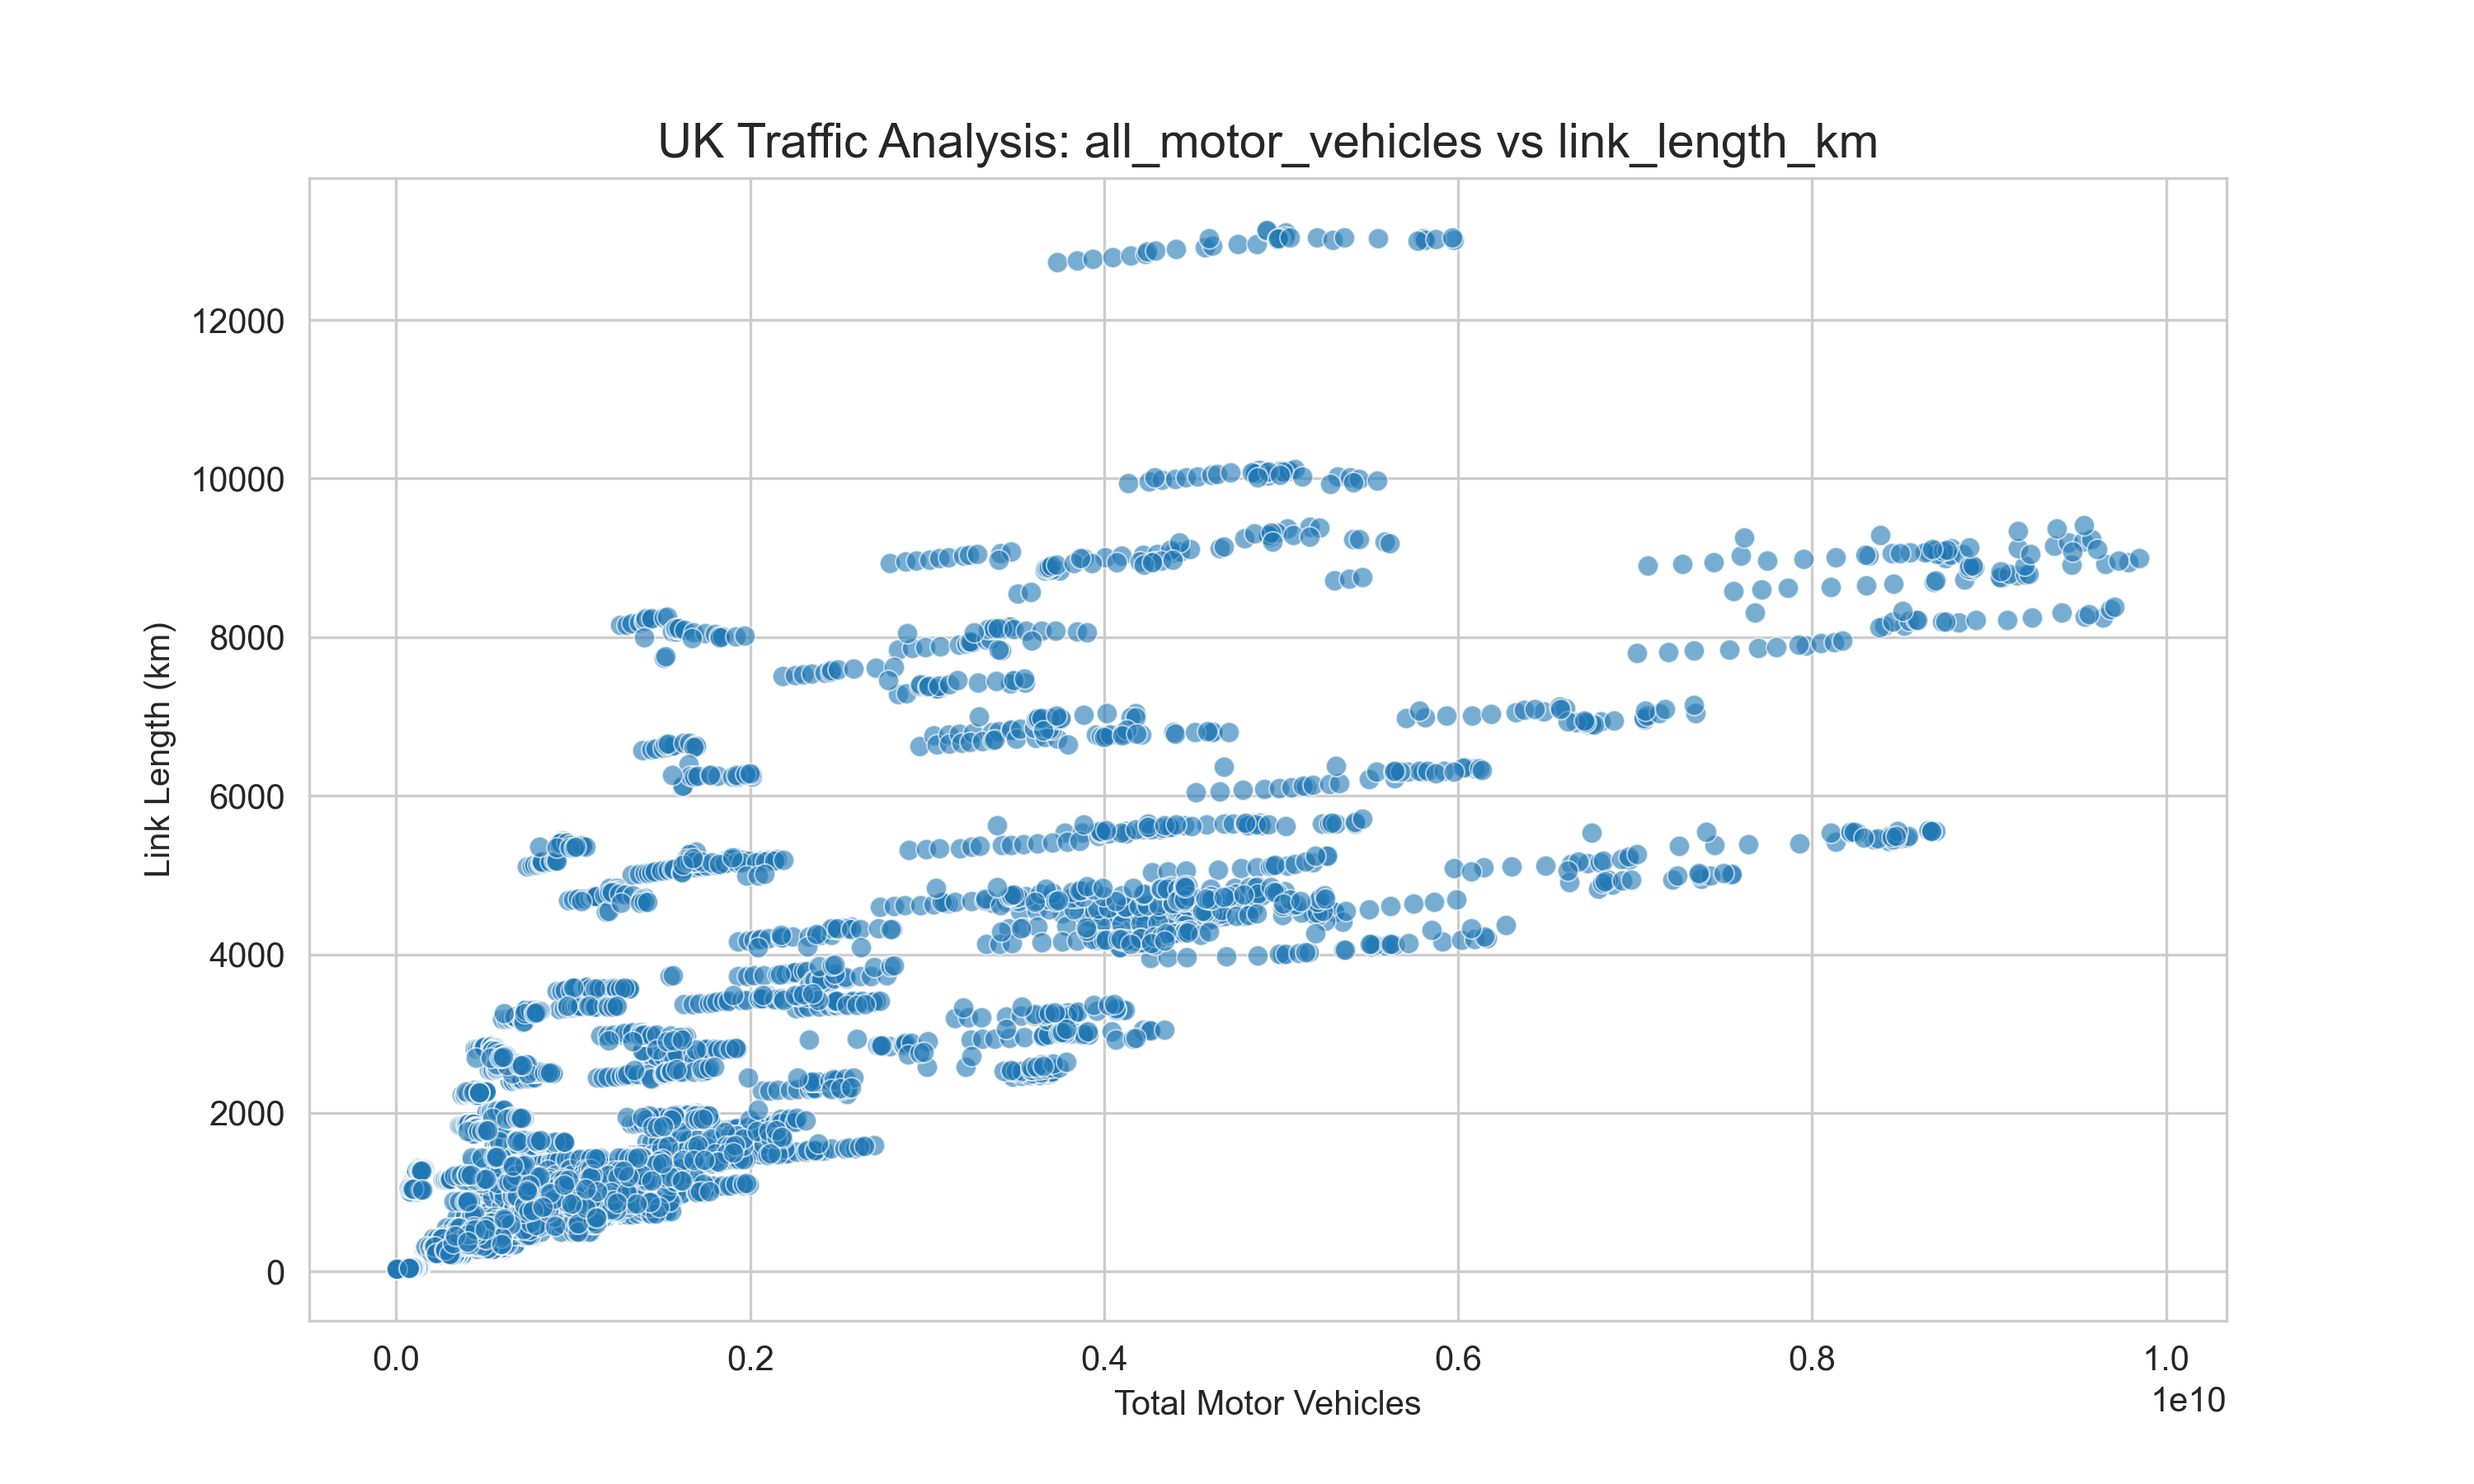
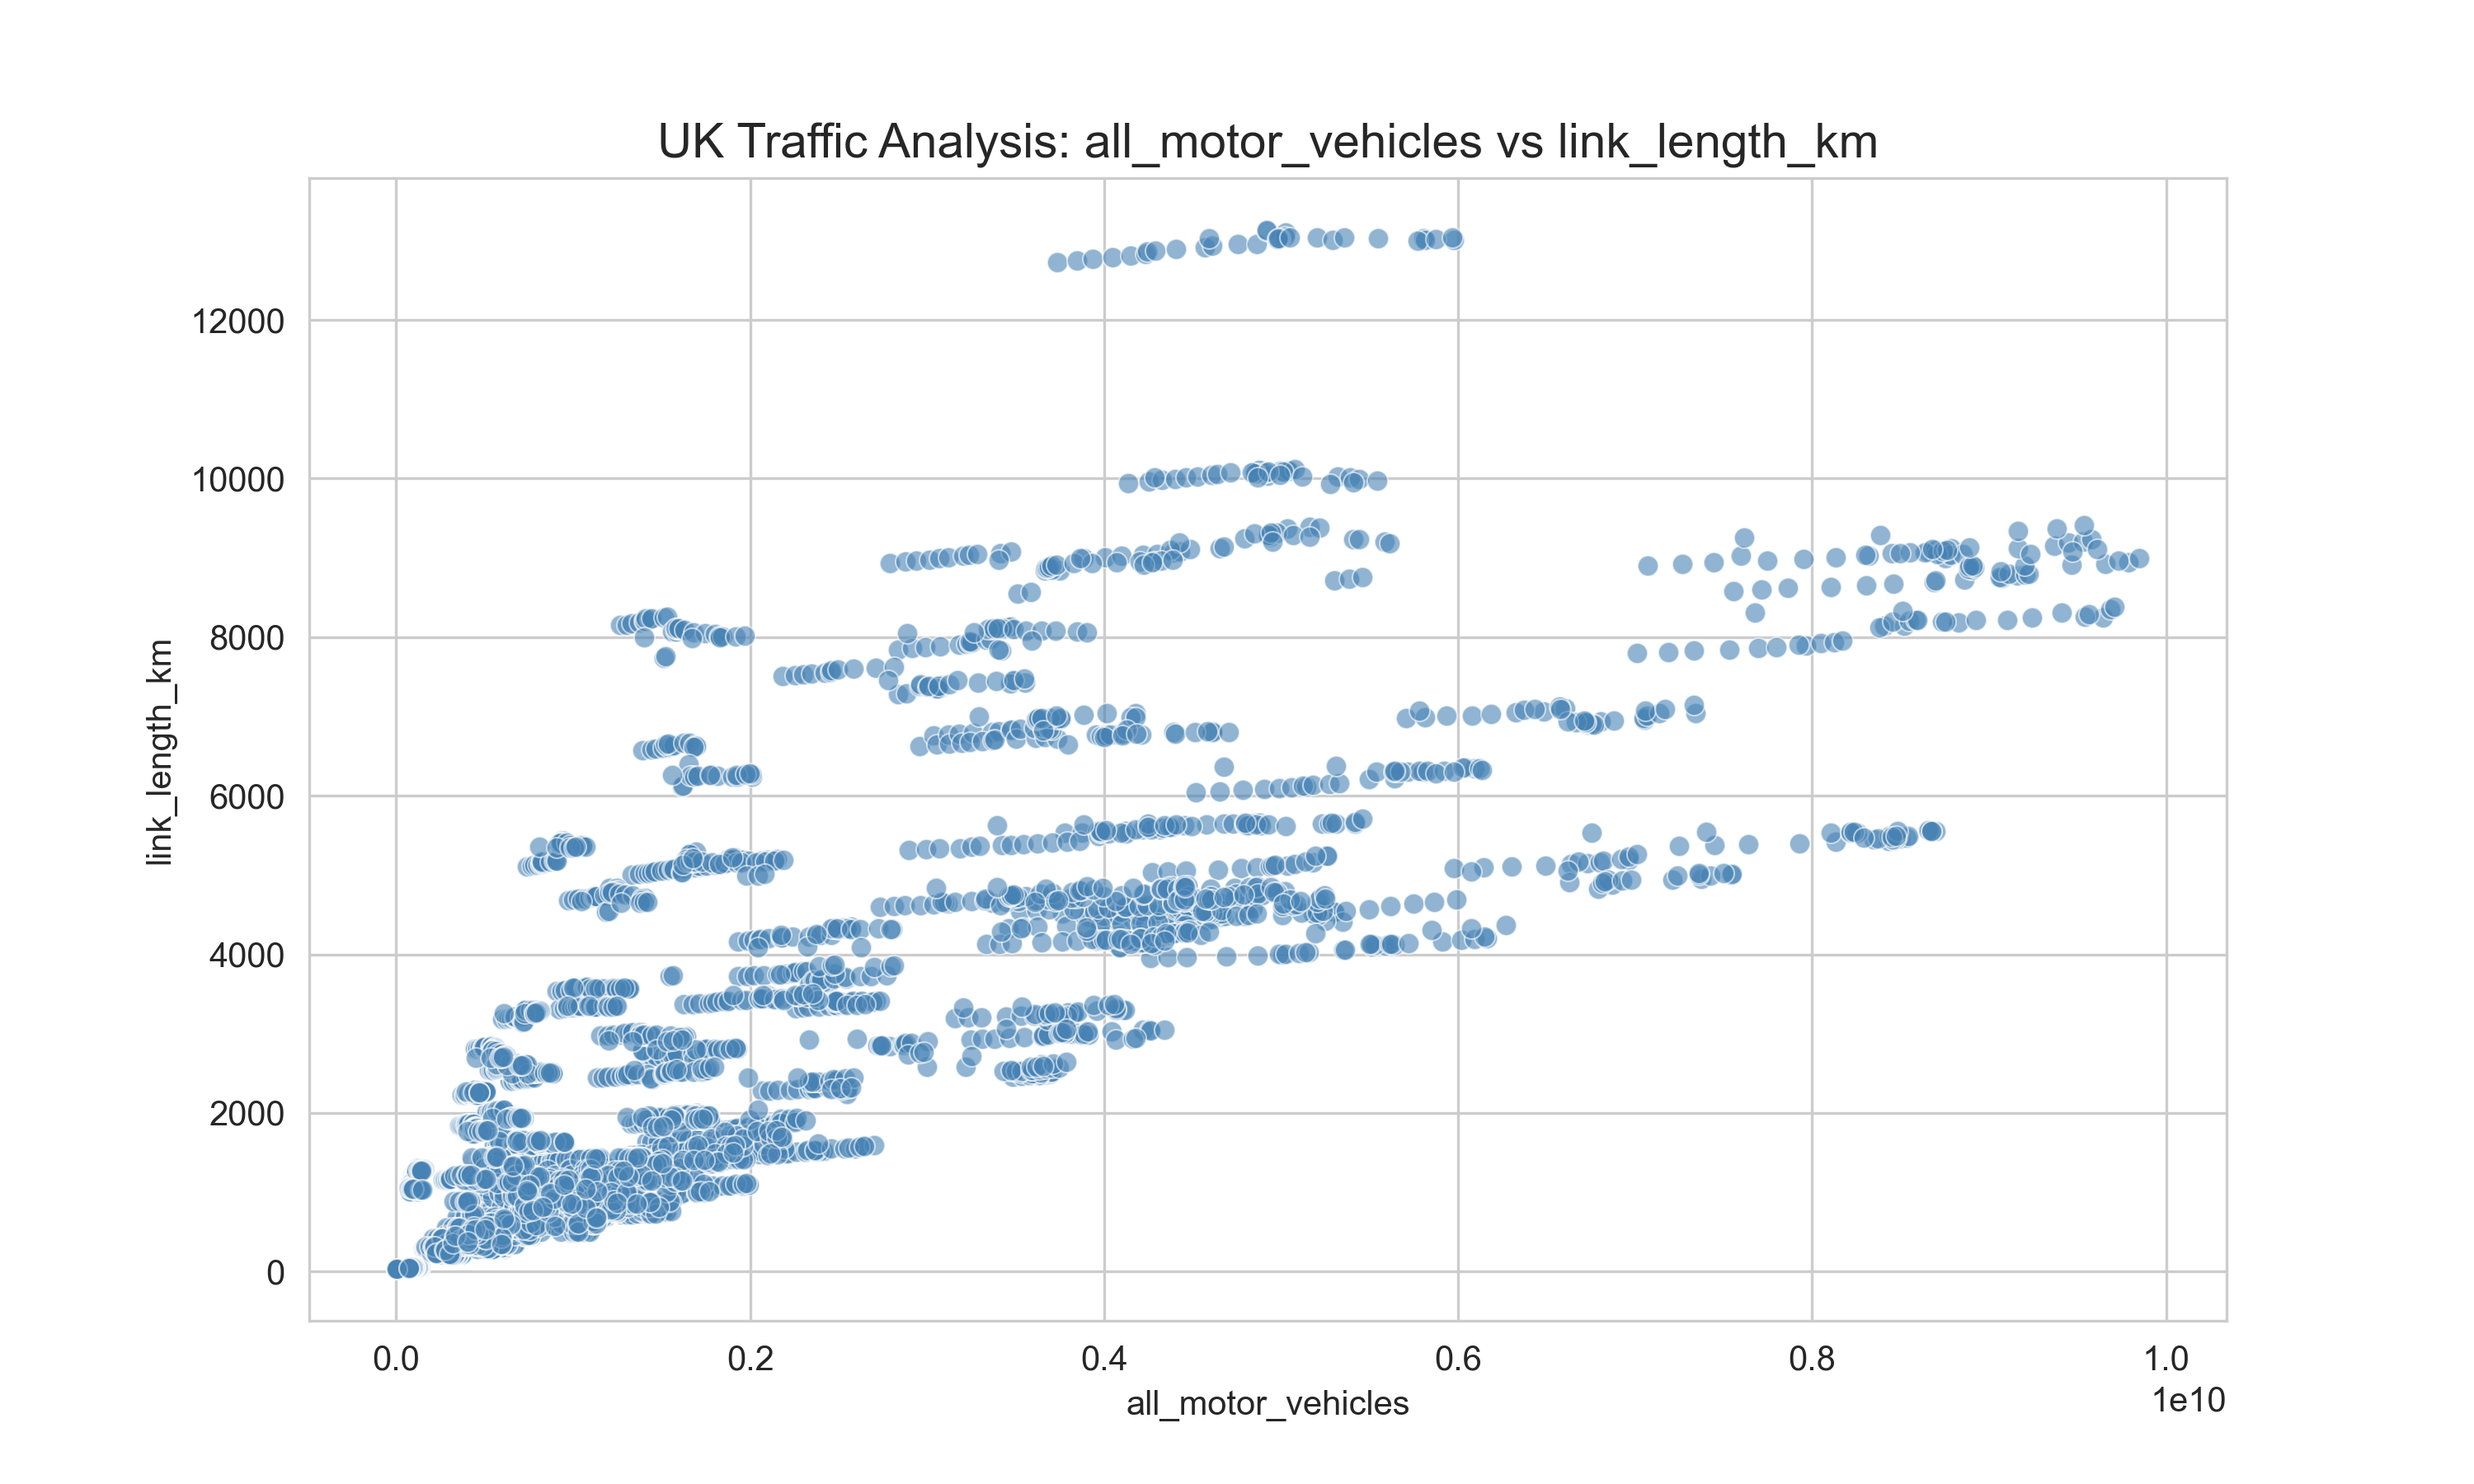
Added correlation heatmap and distribution plots to pipeline

diff --git a/src/traffic_co2/viz.py b/src/traffic_co2/viz.py
@@ -31,3 +31,37 @@ def save_correlation_heatmap(df):
     plt.savefig(output_path, dpi=300)
     plt.close()
     print(f"📊 Correlation heatmap saved to: {output_path}")
+
+
+
+
+import matplotlib.pyplot as plt
+import seaborn as sns
+import pandas as pd
+
+def save_emissions_plot(df, x_col='all_motor_vehicles', y_col='link_length_km'):
+    plt.figure(figsize=(10, 6))
+    sns.set_style("whitegrid")
+    sns.scatterplot(data=df, x=x_col, y=y_col, alpha=0.6, color='steelblue')
+    plt.title(f"UK Traffic Analysis: {x_col} vs {y_col}", fontsize=14)
+    plt.savefig("reports/figures/traffic_analysis_plot.png", dpi=300)
+    plt.close()
+
+def save_correlation_heatmap(df):
+    """Generates a heatmap of all numeric variables."""
+    plt.figure(figsize=(12, 8))
+    numeric_df = df.select_dtypes(include=['number'])
+    sns.heatmap(numeric_df.corr(), annot=True, cmap='RdYlGn', fmt=".2f")
+    plt.title("Correlation Matrix of UK Traffic Metrics", fontsize=14)
+    plt.savefig("reports/figures/correlation_heatmap.png", dpi=300)
+    plt.close()
+    print("📊 Correlation heatmap saved to reports/figures/")
+
+def save_traffic_distribution(df):
+    """Generates a distribution plot of motor vehicles."""
+    plt.figure(figsize=(10, 6))
+    sns.histplot(df['all_motor_vehicles'], kde=True, color='green')
+    plt.title("Distribution of Total Motor Vehicles across UK Authorities", fontsize=14)
+    plt.savefig("reports/figures/traffic_distribution.png", dpi=300)
+    plt.close()
+    print("📈 Distribution plot saved to reports/figures/")

diff --git a/scripts/run_pipeline.py b/scripts/run_pipeline.py
@@ -41,3 +41,19 @@ if __name__ == "__main__":
 
 # ... after save_emissions_plot(df, ...) ...
 save_correlation_heatmap(df)
+
+
+
+
+# ... (existing imports at the top)
+from src.traffic_co2.viz import save_emissions_plot, save_correlation_heatmap, save_traffic_distribution
+
+def main():
+    # ... (loading and cleaning steps)
+    
+    # 3. Visualizations
+    save_emissions_plot(df, x_col='all_motor_vehicles', y_col='link_length_km')
+    save_correlation_heatmap(df)
+    save_traffic_distribution(df)
+    
+    # ... (modeling and saving steps)
